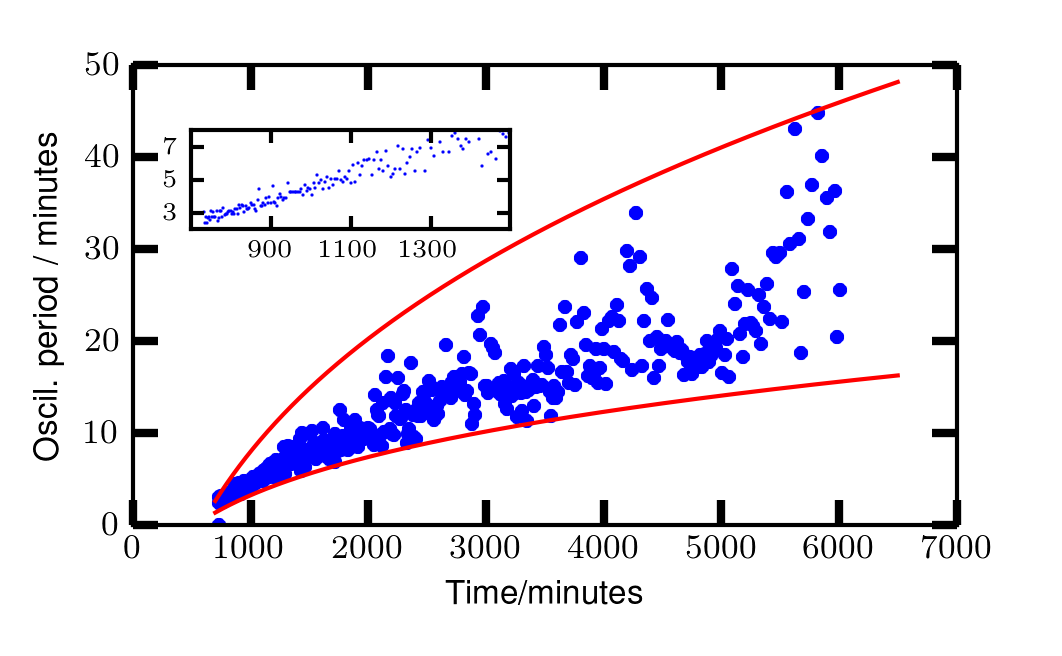
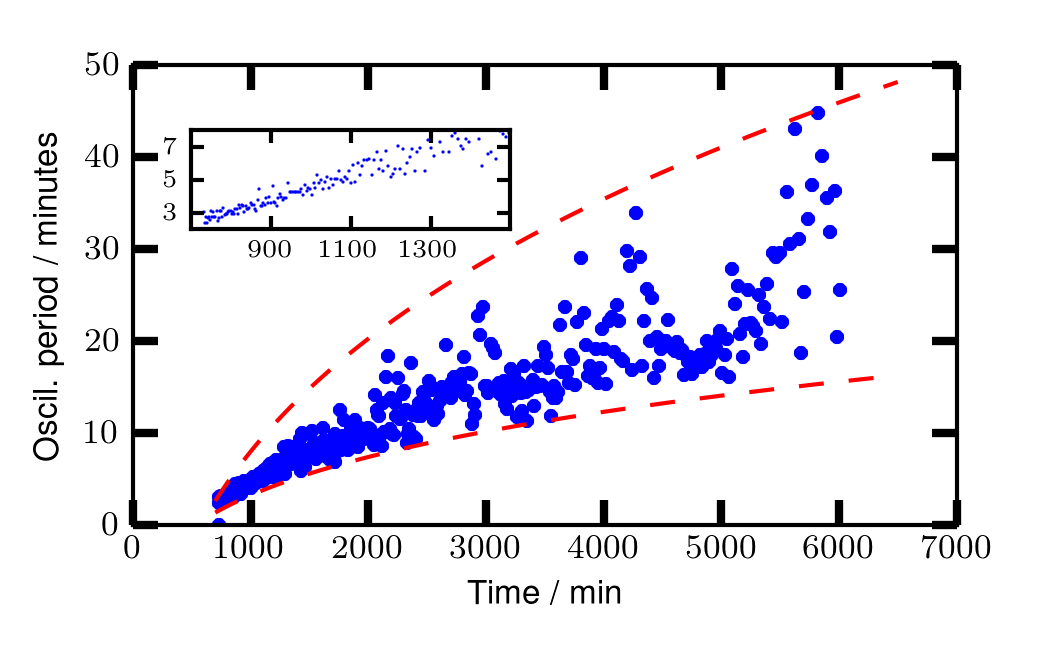
A bit closer towards reply to reviewers

diff --git a/paper.tex b/paper.tex
@@ -180,7 +180,7 @@ According to the proposed model in ref.~\citenum{Hendriksen2010} the bare metal 
 
 In this study Pt nanoparticles were investigated which, compared to a single crystal or a thin film, is a very rough surface. It is to be expected that the particles will initially favor the reduced state. As the reaction runs the gas composition towards the outlet of the reactor will become more oxidizing increasing the oxidation rate of the particles (illustrated in Figure~\ref{fgr:full_oscillation}). Gradually, as the particles toward the outlet oxidizes the turn-over will increase and the general CO concentration will decrease promoting more and more particles to oxidize which will gradually be seen in the QMS as an increase in CO$_2$ and a decrease in CO. As the CO concentration decreases the light-off temperature will decrease hence approaching the constant temperature of the sample resulting in a steep increase in reactivity. It is important to note that the fraction of oxidized particles needed to achieve full conversion is not known. We are currently investigating new methods for gaining insight into the nature of the nanoparticles in the reactor but the low coverage and the design of the reactor !!! and the fact that the lid can only be removed by mechanically breaking the reactor!!! makes this a challenging task. If not all particles are oxidized at light-off they will now oxidize much faster due to the low CO-concentration. The further increased rate will not be visible in the QMS since the reactor is already in full conversion. As most of the particles are now oxidized they will become more and more roughened and gradually return to the reduced state. Fewer and fewer oxidized particles will be responsible for the activity increasing the roughing rate of the remaining active particles. Just before the overall activity drops only a fraction of the particles participates in the reaction and the deactivation will happen very suddenly. Once these potentially few particles eventually becomes sufficiently rough they will reduce and lose activity hence completing the oscillation cycle. It should be noted that our group has recently measured turnover frequencies of CO oxidation on Pt of almost $10^{5}$s$^{-1}$ per site corresponding to as little as $\sim$50000 Pt nanoparticles contributing to the reactivity just before the end of the high-activity cycle. This corresponds to an area of $\sim$0.5 ppm of the reactor area suggesting that in situ studies become challenging as such a minority of the reactor volume could account for all the reactivity. Attempts to see any thermal signal from such small areas has so far been in vain.
 
-The oscillation period increases with time and becomes increasingly less stable as shown in Figure~\ref{fgr:extracts}. This phenomena is consistent across all measured samples. The large scatter in oscillation period can be attributed to the smaller oscillations in between on/off cycles. Occasionally, these small amplitude oscillations will trigger a full switch thus introducing more short-period oscillations despite the trend of increasingly slower oscillation period. A possible explanation of the phenomeonon could be sintering of the particles during the oxidation and reductions cycles. However, since the average conversion integrated over full oscillation periods is constant we do not expect sintering to be the cause since an average loss in activity of the sample would then be expected.
+The oscillation period increases with time and becomes increasingly less stable as shown in Figure~\ref{fgr:extracts}. This phenomena is consistent across all measured samples. The large scatter in oscillation period can be attributed to the smaller oscillations in between on/off cycles. Occasionally, these small amplitude oscillations will trigger a full switch thus introducing more short-period oscillations despite the trend of increasingly slower oscillation period. A possible explanation of the phenomeonon could be sintering of the particles during the oxidation and reductions cycles. However, since the average conversion integrated over full oscillation periods is constant we do not expect sintering to be the cause since an average loss in activity of the sample would then be expected. !!! Another possible mechanism behind the increasing oscillation period, could be morphology changes of the nano particles. However, the fact that the oscillations show no clear size dependence in the range of 3 to 9\,nm suggest that the oscillations are not very dependent on the exact particle morphology.!!!
 
 Oscillations were only seen in CO/O$_2$ ratio below 0.175. This ratio agrees well with literature \cite{Singh2010,Hendriksen2005} where oscillations have been observed in oxygen rich CO/O$_2$ mixtures. The needed low concentration of CO in the inlet gases can be attributed to the much higher sticking coefficient of CO on Pt which poisons the nanoparticle surface during the low reactivity region of the cycle. 
 

diff --git a/supplementary.tex b/supplementary.tex
@@ -76,7 +76,7 @@
 
 
 \section{The $\mu$-reactor platform}
-The experiments were performed in Si-based 20x16\,mm $\mu$-reactors\cite{Henriksen2009}. The reactor consists of two inlets, a mixing zone allowing for diffusional mixing of reactants, an outlet, a reactor volume of $240\,$nL and a $5.4\,\mu$m wide, 3\,$\mu$m high and 1500\,$\mu$m long capillary used for sniffing gases from the reactor volume. The reactor is sealed by anodic bonding of a pyrex lid to the Si reactor and is able to operate in a pressure range of 0-2.5\,bar. The reaction gases are supplied to the two inlets by flow controllers capable of controlling the gas flow from 0-10 mL/min. The capillary flow is fed into a quadropole mass-spectrometer (QMS) for analysis while any surplus of gas from the inlets is passed directly through to the outlet via a pressure controller allowing control of reactor pressure. The design makes sure that all gases exposed to the catalyst under investigation are measured by the QMS ensuring an extremely high sensitivity of the system. 
+The experiments were performed in Si-based 20x16\,mm $\mu$-reactors\cite{Henriksen2009}. The reactor consists of two inlets, a mixing zone allowing for diffusional mixing of reactants, an outlet, a reactor volume of $240\,$nL and a $5.4\,\mu$m wide, 3\,$\mu$m high and 1500\,$\mu$m long capillary used for sniffing gases from the reactor volume. The reactor is sealed by anodic bonding of a pyrex lid to the Si reactor and is able to operate in a pressure range of 0--2.5\,bar. The reaction gases are supplied to the two inlets by flow controllers capable of controlling the gas flow from 0--10 mL/min. The capillary flow is fed into a quadropole mass-spectrometer (QMS) for analysis while any surplus of gas from the inlets is passed directly through to the outlet via a pressure controller allowing control of reactor pressure. The design makes sure that all gases exposed to the catalyst under investigation are measured by the QMS ensuring an extremely high sensitivity of the system. 
 
 \begin{figure}[h]
   \centering
@@ -100,15 +100,15 @@ The dependence of the CO concentration on the period of the oscillations was inv
 
 \begin{figure}[h]
   \centering
-  \includegraphics[width=9cm]{oscillations_gas_dependence_summary_supplemental.png}
-  \caption{Summary of the gas-dependence. The overall trend of increasing oscillation period is now supporimposed by small discontinous stpes when the CO concentration is increased.}
+  \includegraphics[width=9cm]{oscil_gas_dependence_summary.png}
+  \caption{Oscillation period (blue) as a function of time and CO concentration (black). The overall trend of increasing oscillation period with time is superimposed with small discontinuous steps when the CO concentration is increased.}
   \label{fgr:gas_dependence_summary}
 \end{figure}
 
 \begin{figure*}
   \centering
-  \includegraphics[width=14cm]{oscillations_gas_dependence_supplemental.png}
-  \caption{Complete series of oscillating sample, showing CO (red) and CO$_2$ (blue). The temperature is constant $210^\circ$C doing the entire measurement. For every frame the CO-concentration is increased.}
+  \includegraphics[width=14cm]{oscil_gas_dependence.png}
+  \caption{Complete series of data from an oscillating sample, showing CO (red) and CO$_2$ (blue). The temperature is constant at $210^\circ$C during the entire measurement. For every frame the CO-concentration is increased.}
   \label{fgr:gas_dependence}
 \end{figure*}
 
@@ -129,7 +129,7 @@ Even though the period of the oscillations increases with time, the total integr
 \begin{figure}[h]
 \centering
   \includegraphics[width=9cm]{duty_cycles_long_measurement_supplemental.png}
-  \caption{A plot of the duty-cycle of the sample duing the 4-day long experiment. The individual data-points is calculted as the integral of CO (red) or CO$_2$ (blue) doing the individual oscillations. The ratio between CO and CO$_2$ is drawn in black.}
+  \caption{Running average of the CO and CO$_2$ concentrations and their ratio during a 4-day long experiment. The individual data-points is calculated as the integral of CO (red) or CO$_2$ (green) during the individual oscillation periods. The ratio between CO and CO$_2$ is drawn in black.}
   \label{fgr:duty_cycles_supplemental}
 \end{figure}
 

diff --git a/python_figures/oscillations_gas_dependence_summary.py b/python_figures/oscillations_gas_dependence_summary.py
@@ -74,8 +74,9 @@ for i in range(1,len(oscillations)):
 
 fig = plt.figure()
 fig.subplots_adjust(bottom=0.2) # Make room for x-label
+fig.subplots_adjust(right=0.9) # Make room for second y-label
 ratio = 0.61803398              # Golden mean
-fig_width = 9
+fig_width = 12
 fig_width = fig_width /2.54     # width in cm converted to inches
 fig_height = fig_width*ratio
 fig.set_size_inches(fig_width,fig_height)
@@ -92,19 +93,25 @@ axis.set_ylim(0,50)
 axis.set_xlim(0,3100)
 
 axis.tick_params(direction='in', length=6, width=2, colors='k',labelsize=8,axis='both',pad=3)
-axis.grid(True)    
+axis.grid(False)    
 
-axis.set_ylabel('Oscillations periods / minutes', fontsize=8)
-axis.set_xlabel('Time/minutes', fontsize=8)
+axis.set_ylabel('Oscillation period / minutes', fontsize=8)
+axis.set_xlabel('Time / min', fontsize=8)
 
-
-
+axis2 = axis.twinx()
+#axis2.plot(data['CO_FLOW'][:,0], data['CO_FLOW'][:,1], 'r-')
+axis2.plot(data['CO_FLOW'][:,0], data['CO_FLOW'][:,1]/(4+data['CO_FLOW'][:,1]), 'k-')
+axis2.set_xlim(0,3100)
+axis2.set_ylim(0,0.15)
+axis2.set_ylabel('CO/O$_2$-ratio', fontsize=8)    
+#axis2.set_yticks((0.025,0.05,0.075,0.1,0.125))
+axis2.tick_params(direction='in', length=6, width=2, colors='k',labelsize=8,axis='both',pad=3)
 
 
 
 #plt.tight_layout()
 plt.show()
-plt.savefig('../oscillations_gas_dependence_summary_supplemental.png',dpi=300)
+plt.savefig('../oscil_gas_dependence_summary.png',dpi=300)
 
 
 

diff --git a/python_figures/summary_of_long_measurement.py b/python_figures/summary_of_long_measurement.py
@@ -70,11 +70,11 @@ errfunc = lambda p, x, y: fitfunc(p, x) - y # Distance to the target function
 p0 = [0.2,0.6,2] # Initial guess for the parameters
 p1, success = optimize.leastsq(errfunc, p0[:], args=([700,1000,2000,4000,6000],[4,6,20,37,45]),maxfev=1000)
 print p1, success
-axis.plot(range,p1[0]*(range**(p1[1]))+p1[2],'r-')
+axis.plot(range,p1[0]*(range**(p1[1]))+p1[2],'r--')
 
 p1, success = optimize.leastsq(errfunc, p0[:], args=([500,1000,2000,4000,6000],[0,2,9,11,16]),maxfev=1000)
 print p1, success
-axis.plot(range,p1[0]*(range**(p1[1]))+p1[2],'r-')
+axis.plot(range,p1[0]*(range**(p1[1]))+p1[2],'r--')
 #axis.plot(data['M28'][:,0], data['M28'][:,1], 'r-')
 #axis.plot(data['M44'][:,0], data['M44'][:,1], 'b-')
 #axis.set_ylim(0,7)
@@ -84,7 +84,7 @@ axis.tick_params(direction='in', length=6, width=2, colors='k',labelsize=8,axis=
 axis.grid(False)    
 
 axis.set_ylabel('Oscil. period / minutes', fontsize=8)
-axis.set_xlabel('Time/minutes', fontsize=8)
+axis.set_xlabel('Time / min', fontsize=8)
 
 a = plt.axes([.18, .65, .3, .15], axisbg='w')
 a.plot(oscillations, periods, 'b,')

diff --git a/python_figures/oscillations_gas_dependence.py b/python_figures/oscillations_gas_dependence.py
@@ -59,7 +59,7 @@ axis2_array = []
 for i in range(0,steps-1):
     axis_array.append(fig.add_subplot(6,3,i+1))
     axis_array[i].plot(data['M28'][:,0], data['M28'][:,1]*1e9, 'r-')
-    axis_array[i].plot(data['M44'][:,0], data['M44'][:,1]*1e9, 'b-')
+    axis_array[i].plot(data['M44'][:,0], data['M44'][:,1]*1e9, 'g-')
     #axis_array[i].set_ylim(0,0.1*(i+1)*1.85)
     axis_array[i].set_ylim(0,1.5)
     axis_array[i].set_yticks((0.25,0.5,0.75,1,1.25))
@@ -95,4 +95,4 @@ for i in range(0,steps-1):
 
 #plt.tight_layout()
 #plt.show()
-plt.savefig('../oscillations_gas_dependence_supplemental.png',dpi=300)
+plt.savefig('../oscillations_gas_dependence.png',dpi=300)

diff --git a/python_figures/duty_cycles_long_measurement.py b/python_figures/duty_cycles_long_measurement.py
@@ -101,7 +101,7 @@ axis.grid(False)
 
 #axis.set_ylabel('SEM Current / nA', fontsize=20)
 axis.set_ylabel('Integrated charge (a.u.)', fontsize=8)
-axis.set_xlabel('Time/minutes', fontsize=8)
+axis.set_xlabel('Time / min', fontsize=8)
 
 
 
